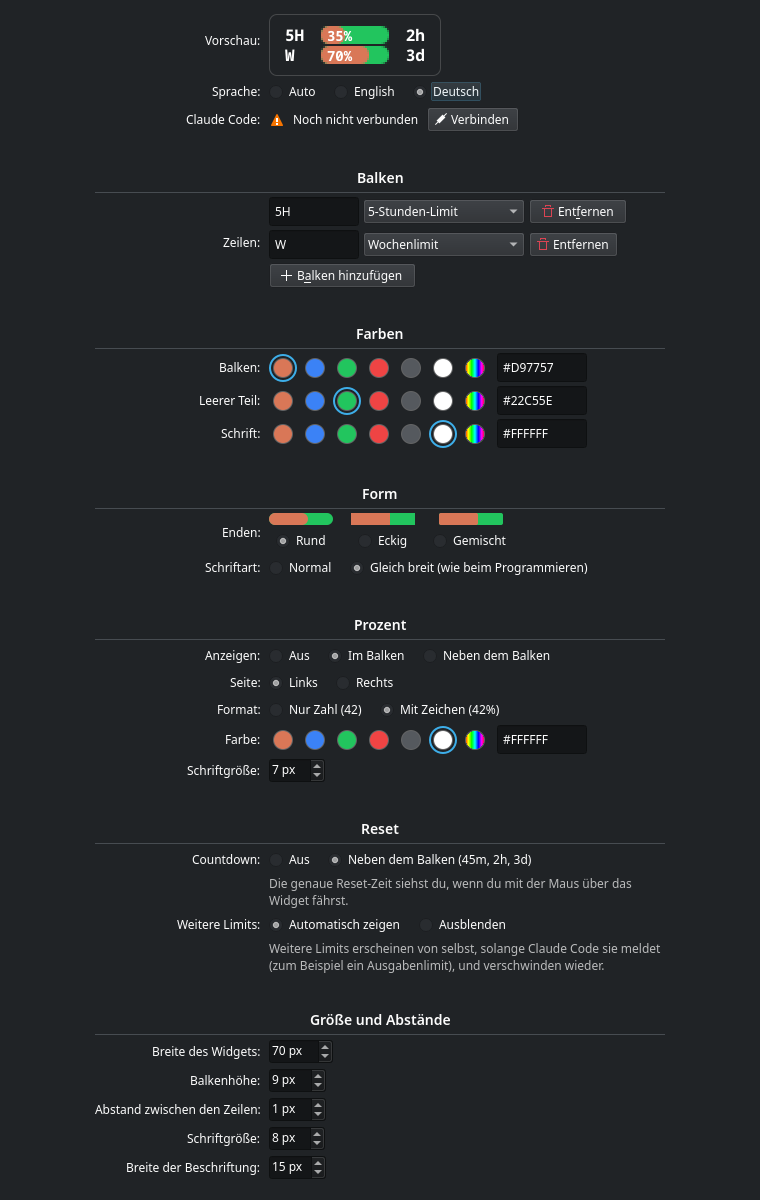
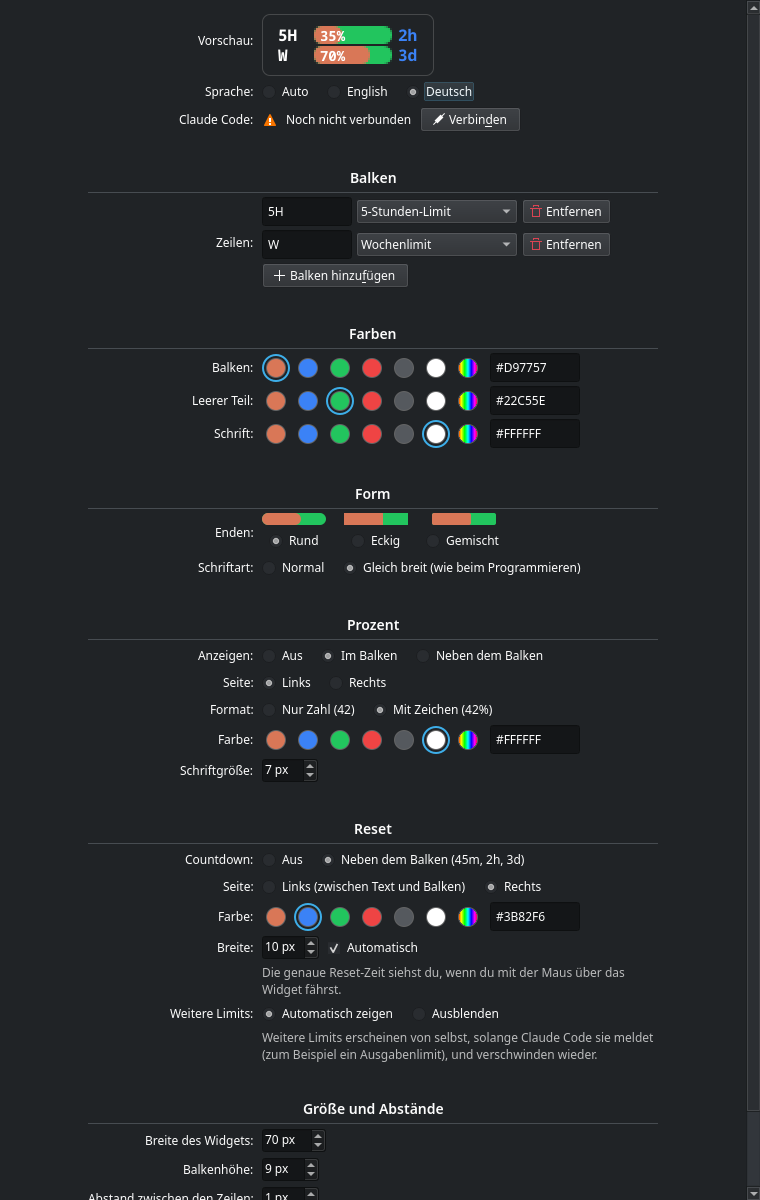
Claude Usage Bars 1.1.0
- Countdown: choose the side (left between text and bar, or right) and its own color
- Countdown width: automatic (as wide as the text shown, no empty gap) or fixed in px
- Label width can go down to 1 px

diff --git a/package/contents/ui/Anzeige.qml b/package/contents/ui/Anzeige.qml
@@ -24,6 +24,9 @@ ColumnLayout {
 
     // Countdown to the reset, next to the bar ("45m", "2h", "3d")
     property string resetModus: "off"        // "off" or "outside"
+    property string resetSeite: "right"      // "left" (between text and bar) or "right" (far right)
+    property color resetFarbe: textFarbe
+    property int resetBreiteFest: 0          // fixed width in px, 0 = as wide as the longest countdown shown
     property var resets: ({})                // reset time (Unix seconds) by row key
     property real jetzt: Date.now() / 1000
 
@@ -36,7 +39,15 @@ ColumnLayout {
         if (h < 24) return h + "h";
         return Math.floor(h / 24) + "d";
     }
-    readonly property int resetBreite: Math.ceil(resetMessung.advanceWidth)
+    // Auto: as wide as the countdowns shown right now, so there is no empty gap ("4h" needs less than "59m")
+    readonly property int resetBreiteAuto: {
+        var schrift = resetMessung.font;   // recompute when the font changes
+        var breite = 0;
+        for (var i = 0; i < zeilen.length; i++)
+            breite = Math.max(breite, resetMessung.advanceWidth(countdown(resets[zeilen[i].key] || 0)));
+        return Math.ceil(breite || resetMessung.advanceWidth("0h"));
+    }
+    readonly property int resetBreite: resetBreiteFest > 0 ? resetBreiteFest : resetBreiteAuto
 
     // Gleich breite Schrift (wie beim Programmieren): jedes Zeichen gleich breit, 1 so breit wie 8, H so breit wie W
     property bool gleichBreit: true
@@ -47,12 +58,11 @@ ColumnLayout {
 
     spacing: 3
 
-    TextMetrics {
+    FontMetrics {
         id: resetMessung
         font.pixelSize: anzeige.schriftGroesse
         font.bold: true
         font.family: anzeige.schriftArt
-        text: "59m"
     }
 
     TextMetrics {
@@ -87,6 +97,23 @@ ColumnLayout {
                 Layout.preferredHeight: anzeige.balkenHoehe
                 Layout.maximumHeight: anzeige.balkenHoehe
                 horizontalAlignment: Text.AlignLeft
+                verticalAlignment: Text.AlignVCenter
+            }
+
+            // Countdown to the reset, left between text and bar
+            Text {
+                visible: anzeige.resetModus === "outside" && anzeige.resetSeite === "left"
+                text: anzeige.countdown(anzeige.resets[modelData.key] || 0)
+                color: anzeige.resetFarbe
+                font.pixelSize: anzeige.schriftGroesse
+                font.bold: true
+                font.family: anzeige.schriftArt
+                Layout.preferredWidth: anzeige.resetBreite
+                Layout.minimumWidth: anzeige.resetBreite
+                Layout.maximumWidth: anzeige.resetBreite
+                Layout.preferredHeight: anzeige.balkenHoehe
+                Layout.maximumHeight: anzeige.balkenHoehe
+                horizontalAlignment: Text.AlignRight
                 verticalAlignment: Text.AlignVCenter
             }
 
@@ -145,19 +172,20 @@ ColumnLayout {
                 verticalAlignment: Text.AlignVCenter
             }
 
-            // Countdown to the reset, at the far right
+            // Countdown to the reset, right of the bar
             Text {
-                visible: anzeige.resetModus === "outside"
+                visible: anzeige.resetModus === "outside" && anzeige.resetSeite === "right"
                 text: anzeige.countdown(anzeige.resets[modelData.key] || 0)
-                color: anzeige.textFarbe
+                color: anzeige.resetFarbe
                 font.pixelSize: anzeige.schriftGroesse
                 font.bold: true
                 font.family: anzeige.schriftArt
                 Layout.preferredWidth: anzeige.resetBreite
                 Layout.minimumWidth: anzeige.resetBreite
+                Layout.maximumWidth: anzeige.resetBreite
                 Layout.preferredHeight: anzeige.balkenHoehe
                 Layout.maximumHeight: anzeige.balkenHoehe
-                horizontalAlignment: Text.AlignRight
+                horizontalAlignment: Text.AlignLeft
                 verticalAlignment: Text.AlignVCenter
             }
         }

diff --git a/package/contents/ui/ConfigGeneral.qml b/package/contents/ui/ConfigGeneral.qml
@@ -29,6 +29,9 @@ KCM.SimpleKCM {
     property string cfg_language
     property string cfg_resetMode
     property bool cfg_autoExtra
+    property string cfg_resetSide
+    property string cfg_resetColor
+    property int cfg_resetWidth
 
     function t(text) {
         return Texte.t(text, cfg_language);
@@ -154,6 +157,7 @@ KCM.SimpleKCM {
 
                 Anzeige {
                     id: vorschau
+                    objectName: "vorschau"
                     x: 16
                     y: 12
                     width: seite.cfg_widgetWidth
@@ -176,6 +180,9 @@ KCM.SimpleKCM {
                     prozentGroesse: seite.cfg_percentFontSize
                     gleichBreit: seite.cfg_monoFont
                     resetModus: seite.cfg_resetMode
+                    resetSeite: seite.cfg_resetSide
+                    resetBreiteFest: seite.cfg_resetWidth
+                    resetFarbe: seite.farbeOder(seite.cfg_resetColor, vorschau.textFarbe)
                     jetzt: seite.jetzt
                     resets: ({ "five": seite.jetzt + 2 * 3600 + 600, "week": seite.jetzt + 3 * 86400 })
                 }
@@ -449,6 +456,46 @@ KCM.SimpleKCM {
             wert: seite.cfg_resetMode
             onGewaehlt: wert => seite.cfg_resetMode = wert
         }
+        AuswahlReihe {
+            sprache: seite.cfg_language
+            Kirigami.FormData.label: seite.t("Side:")
+            enabled: seite.cfg_resetMode !== "off"
+            optionen: [
+                { name: "Left (between text and bar)", wert: "left" },
+                { name: "Right", wert: "right" }
+            ]
+            wert: seite.cfg_resetSide
+            onGewaehlt: wert => seite.cfg_resetSide = wert
+        }
+        Farbreihe {
+            Kirigami.FormData.label: seite.t("Color:")
+            enabled: seite.cfg_resetMode !== "off"
+            sprache: seite.cfg_language
+            farben: seite.farbListe
+            // Empty means: same color as the text
+            wert: seite.cfg_resetColor || seite.cfg_textColor
+            onGewaehlt: farbe => seite.cfg_resetColor = farbe
+        }
+        RowLayout {
+            Kirigami.FormData.label: seite.t("Width:")
+            enabled: seite.cfg_resetMode !== "off"
+            spacing: Kirigami.Units.largeSpacing
+
+            // Shows the automatic width too, so the arrows start from there
+            PxFeld {
+                objectName: "resetBreite"
+                from: 1
+                to: 60
+                value: seite.cfg_resetWidth > 0 ? seite.cfg_resetWidth : vorschau.resetBreiteAuto
+                onValueModified: seite.cfg_resetWidth = value
+            }
+            CheckBox {
+                objectName: "resetBreiteAuto"
+                text: seite.t("Automatic")
+                checked: seite.cfg_resetWidth === 0
+                onToggled: seite.cfg_resetWidth = checked ? 0 : vorschau.resetBreiteAuto
+            }
+        }
         Label {
             Layout.maximumWidth: Kirigami.Units.gridUnit * 22
             wrapMode: Text.WordWrap
@@ -508,7 +555,7 @@ KCM.SimpleKCM {
         }
         PxFeld {
             Kirigami.FormData.label: seite.t("Label width:")
-            from: 8
+            from: 1
             to: 40
             value: seite.cfg_labelWidth
             onValueModified: seite.cfg_labelWidth = value

diff --git a/tests/looks.qml b/tests/looks.qml
@@ -22,7 +22,7 @@ ApplicationWindow {
                 { form: "round", prozent: "inside", seite: "right", reset: "off", mono: true },
                 { form: "round", prozent: "outside", seite: "left", reset: "outside", mono: true },
                 { form: "square", prozent: "outside", seite: "right", reset: "off", mono: false },
-                { form: "mixed", prozent: "inside", seite: "left", reset: "outside", mono: true },
+                { form: "mixed", prozent: "inside", seite: "right", reset: "outside", resetSeite: "left", resetFarbe: "#cacaca", mono: true },
                 { form: "round", prozent: "off", seite: "right", reset: "outside", mono: true, extra: true }
             ]
             delegate: Item {
@@ -46,6 +46,8 @@ ApplicationWindow {
                     prozentSeite: modelData.seite
                     prozentFarbe: modelData.prozent === "inside" ? "#FFFFFF" : "#D97757"
                     resetModus: modelData.reset
+                    resetSeite: modelData.resetSeite || "right"
+                    resetFarbe: modelData.resetFarbe || "#D97757"
                     gleichBreit: modelData.mono
                 }
             }

diff --git a/package/contents/ui/main.qml b/package/contents/ui/main.qml
@@ -73,6 +73,10 @@ PlasmoidItem {
             prozentGroesse: root.cfg.percentFontSize
             gleichBreit: root.cfg.monoFont
             resetModus: root.cfg.resetMode
+            resetSeite: root.cfg.resetSide
+            resetBreiteFest: root.cfg.resetWidth
+            // Empty means: same color as the text
+            resetFarbe: root.farbe(root.cfg.resetColor, textFarbe)
         }
     }
 }

diff --git a/package/contents/ui/texte.js b/package/contents/ui/texte.js
@@ -51,6 +51,8 @@ var de = {
     "Bar height:": "Balkenhöhe:",
     "Space between rows:": "Abstand zwischen den Zeilen:",
     "Label width:": "Breite der Beschriftung:",
+    "Width:": "Breite:",
+    "Automatic": "Automatisch",
     "Orange (default)": "Orange (Standard)",
     "Blue": "Blau",
     "Green": "Grün",

diff --git a/tests/settings_page.qml b/tests/settings_page.qml
@@ -71,5 +71,8 @@ ApplicationWindow {
         cfg_language: "en"
         cfg_resetMode: "outside"
         cfg_autoExtra: true
+        cfg_resetSide: "right"
+        cfg_resetColor: ""
+        cfg_resetWidth: 0
     }
 }

diff --git a/tests/run_tests.py b/tests/run_tests.py
@@ -165,7 +165,7 @@ click("verbinden")
 check("disconnect removes it", wait_for(lambda: page.property("verbindung") == "missing"), page.property("verbindung"))
 
 # Colors
-check("palette circles", qml("anzahlPraefix", "farbe:") == 24, qml("anzahlPraefix", "farbe:"))
+check("palette circles", qml("anzahlPraefix", "farbe:") == 30, qml("anzahlPraefix", "farbe:"))
 click("farbe:#3B82F6", 0)
 check("bar color blue", page.property("cfg_barColor") == "#3B82F6", page.property("cfg_barColor"))
 click("farbe:#22C55E", 1)
@@ -208,6 +208,36 @@ click("wahl:off", -1)
 check("countdown off", page.property("cfg_resetMode") == "off", page.property("cfg_resetMode"))
 click("wahl:outside", -1)
 check("countdown on", page.property("cfg_resetMode") == "outside", page.property("cfg_resetMode"))
+# Countdown side and color: the last "left"/"right" pair and the fifth color row
+check("countdown color follows the text color while unset", qml("wert", "vorschau", 0, "resetFarbe") ==
+      qml("wert", "vorschau", 0, "textFarbe"), qml("wert", "vorschau", 0, "resetFarbe"))
+click("wahl:left", -1)
+check("countdown left", page.property("cfg_resetSide") == "left", page.property("cfg_resetSide"))
+check("percent side unchanged", page.property("cfg_percentSide") == "left", page.property("cfg_percentSide"))
+click("farbe:#3B82F6", 4)
+check("countdown color blue", page.property("cfg_resetColor") == "#3B82F6", page.property("cfg_resetColor"))
+check("text color unchanged", page.property("cfg_textColor") == "#FFFFFF", page.property("cfg_textColor"))
+click("wahl:right", -1)
+check("countdown right", page.property("cfg_resetSide") == "right", page.property("cfg_resetSide"))
+auto_width = qml("wert", "vorschau", 0, "resetBreite")
+# The preview shows "2h" and "3d": the automatic width is two characters, not "59m"
+check("auto width fits the shown countdowns", 0 < auto_width < qml("wert", "vorschau", 0, "schriftGroesse") * 1.6,
+      auto_width)
+check("Automatic is ticked by default", qml("wert", "resetBreiteAuto", 0, "checked") is True)
+check("width field starts at the automatic width", qml("wert", "resetBreite", 0, "value") == auto_width,
+      qml("wert", "resetBreite", 0, "value"))
+QTest.mouseClick(win, Qt.LeftButton, Qt.NoModifier, spot("resetBreite", 0, False, 0.97, 0.75))
+QTest.qWait(300)
+check("arrow down makes it narrower than auto", page.property("cfg_resetWidth") == auto_width - 1,
+      page.property("cfg_resetWidth"))
+check("Automatic is unticked after a change", qml("wert", "resetBreiteAuto", 0, "checked") is False)
+check("preview uses the fixed width", qml("wert", "vorschau", 0, "resetBreite") == auto_width - 1)
+click("resetBreiteAuto")
+check("ticking Automatic goes back to auto", page.property("cfg_resetWidth") == 0 and
+      qml("wert", "vorschau", 0, "resetBreite") == auto_width, page.property("cfg_resetWidth"))
+click("wahl:off", -1)
+check("countdown side is greyed out while off", qml("wert", "wahl:left", -1, "enabled") is False)
+click("wahl:outside", -1)
 
 # Rows
 click("hinzufuegen")

diff --git a/STORE.md b/STORE.md
@@ -14,7 +14,7 @@ Unofficial: your Claude Code 5-hour and weekly usage limits as small bars in the
 Shows your Claude Code usage limits as bars in the panel: the 5-hour limit and the weekly limit.
 
 - Percentage inside or next to the bar, with or without %
-- Countdown to the next reset (45m, 2h, 3d), exact time in the tooltip
+- Countdown to the next reset (45m, 2h, 3d), left or right, own color, exact time in the tooltip
 - Bars drop to 0 by themselves when a limit resets
 - Extra limits (e.g. a spend limit) appear on their own while Claude Code reports them
 - Palette and color picker, round/square/mixed ends, monospace font, sizes and spacing
@@ -30,11 +30,16 @@ Source and issues: https://github.com/mat-53/claude-usage-bars
 
 **License:** MIT
 
-**Version:** 1.0.0
+**Version:** 1.1.0
+
+**Changelog (1.1.0):**
+- Countdown: choose the side (left between text and bar, or right) and its own color
+- Countdown width: automatic (as wide as the text shown, no empty gap) or a fixed width in px
+- Label width can go down to 1 px
 
 **Changelog (1.0.0):** First release.
 
-**File:** dist/claude-usage-bars-1.0.0.plasmoid (made with ./build.sh)
+**File:** dist/claude-usage-bars-1.1.0.plasmoid (made with ./build.sh)
 
 **Logo:** screenshots/logo.png
 

diff --git a/README.md b/README.md
@@ -10,7 +10,7 @@ A small KDE Plasma 6 panel widget that shows your **Claude Code usage limits** a
 
 - One bar per limit, stacked like Plasma's disk usage widget
 - Percentage inside the bar or next to it, with or without `%`
-- Countdown to the reset next to the bar (`45m`, `2h`, `3d`). Hover over the widget for the exact time.
+- Countdown to the reset (`45m`, `2h`, `3d`), left or right of the bar, in its own color. Hover over the widget for the exact time.
 - Bars drop to 0 by themselves when a limit resets, even while Claude Code is closed
 - Extra limits (for example a spend limit) show up on their own while Claude Code reports them, and disappear again
 - Colors with a palette and a color picker, round, square or mixed bar ends, monospace font, sizes and spacing
